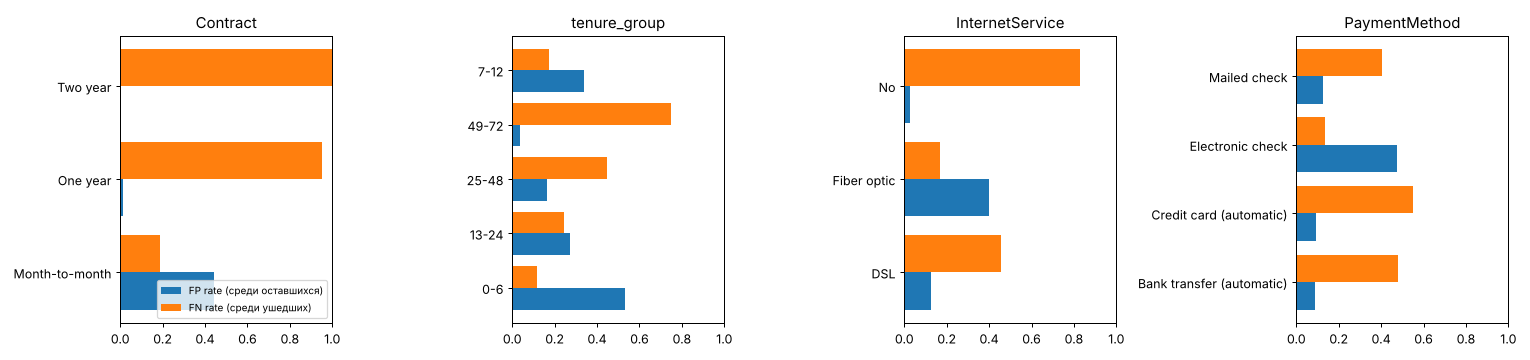
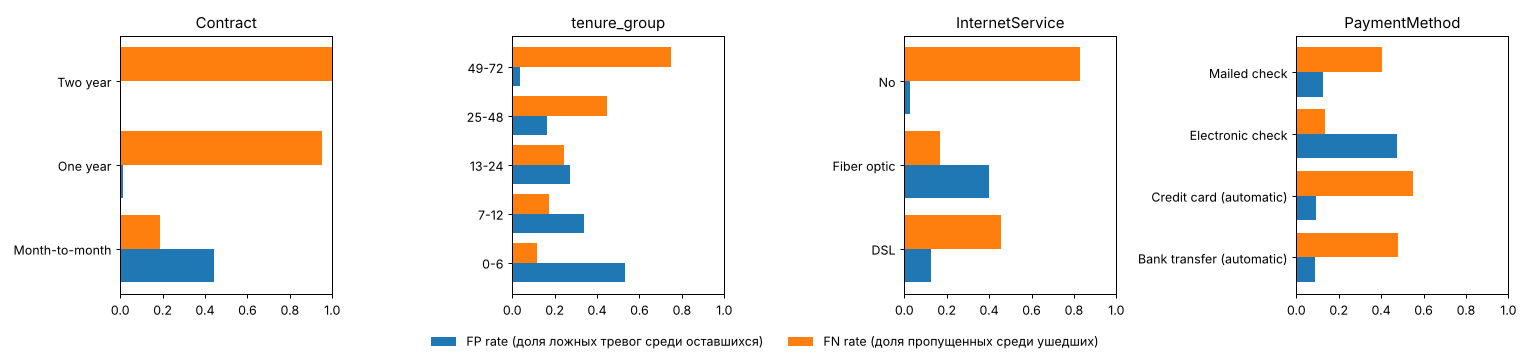
Анализ ошибок: группы стажа и платежа по порядку, легенда графика

diff --git a/churn/analysis.py b/churn/analysis.py
@@ -74,8 +74,9 @@ def catboost_importance(model, X) -> pd.DataFrame:
 
 def add_groups(X: pd.DataFrame) -> pd.DataFrame:
     out = X.copy()
-    out["tenure_group"] = pd.cut(out["tenure"], TENURE_BINS, labels=TENURE_LABELS).astype(str)
-    out["monthly_charges_group"] = pd.cut(out["MonthlyCharges"], CHARGES_BINS, labels=CHARGES_LABELS).astype(str)
+    # Упорядоченные категории: группы в таблицах и на графиках идут по возрастанию.
+    out["tenure_group"] = pd.cut(out["tenure"], TENURE_BINS, labels=TENURE_LABELS)
+    out["monthly_charges_group"] = pd.cut(out["MonthlyCharges"], CHARGES_BINS, labels=CHARGES_LABELS)
     return out
 
 
@@ -89,7 +90,7 @@ def error_table(X: pd.DataFrame, y: pd.Series, proba: np.ndarray, threshold: flo
     total_fp, total_fn = df["fp"].sum(), df["fn"].sum()
     rows = []
     for column in GROUP_COLUMNS:
-        for value, g in df.groupby(column):
+        for value, g in df.groupby(column, observed=True):
             rows.append({
                 "feature": column,
                 "value": str(value),
@@ -139,12 +140,13 @@ def plot_errors(errors: pd.DataFrame, path: Path) -> None:
     for ax, column in zip(axes, columns):
         sub = errors[errors["feature"] == column]
         pos = np.arange(len(sub))
-        ax.barh(pos - 0.2, sub["fp_rate"], height=0.4, label="FP rate (среди оставшихся)")
-        ax.barh(pos + 0.2, sub["fn_rate"], height=0.4, label="FN rate (среди ушедших)")
+        ax.barh(pos - 0.2, sub["fp_rate"], height=0.4, label="FP rate (доля ложных тревог среди оставшихся)")
+        ax.barh(pos + 0.2, sub["fn_rate"], height=0.4, label="FN rate (доля пропущенных среди ушедших)")
         ax.set_yticks(pos, sub["value"])
         ax.set(title=column, xlim=(0, 1))
-    axes[0].legend(loc="lower right", fontsize=8)
-    fig.tight_layout()
+    handles, labels = axes[0].get_legend_handles_labels()
+    fig.legend(handles, labels, loc="lower center", ncol=2, frameon=False)
+    fig.tight_layout(rect=(0, 0.08, 1, 1))
     fig.savefig(path, dpi=90)
     plt.close(fig)
 

diff --git a/tests/test_analysis.py b/tests/test_analysis.py
@@ -9,8 +9,8 @@ from tests.conftest import DATA_PATH
 def test_groups_cover_all_rows(raw_df):
     X, _, _ = load_dataset(DATA_PATH)
     groups = add_groups(X)
-    assert not groups["tenure_group"].eq("nan").any()
-    assert not groups["monthly_charges_group"].eq("nan").any()
+    assert groups["tenure_group"].notna().all()
+    assert groups["monthly_charges_group"].notna().all()
 
 
 def test_error_table_counts_are_consistent(raw_df):
